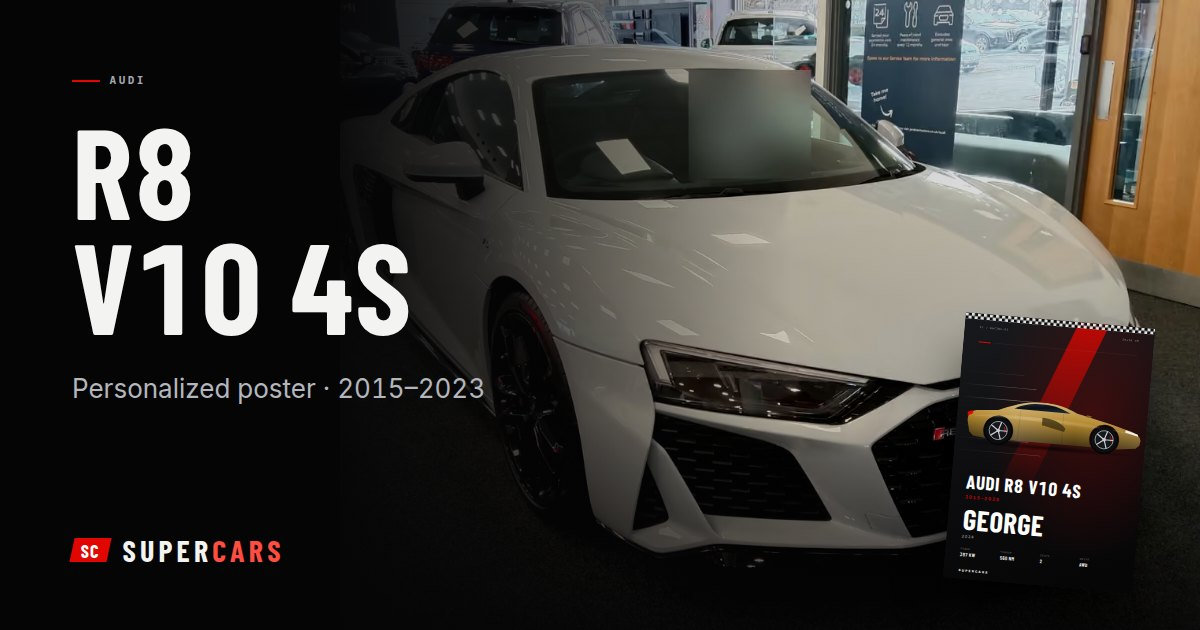
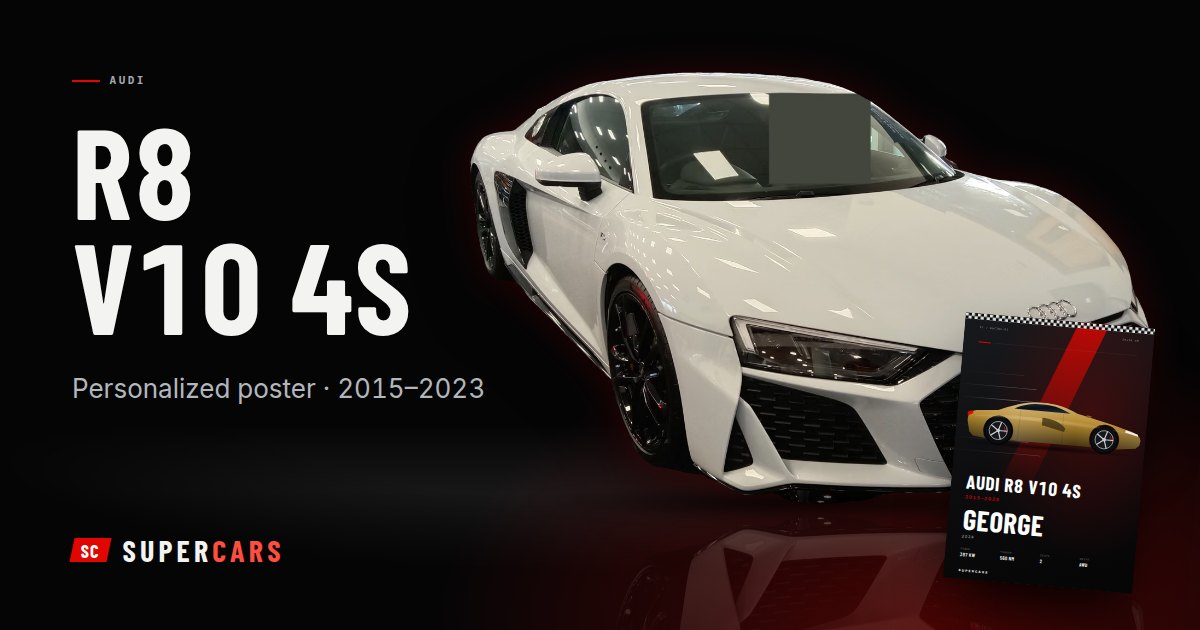
SuperCars: share images use the studio cut-outs
Claude-Session: https://claude.ai/code/session_01Y5xeqZSzBeaEcyTfuFvrQh

diff --git a/supercars/src/app/og-preview/[...key]/page.tsx b/supercars/src/app/og-preview/[...key]/page.tsx
@@ -1,5 +1,6 @@
 import { notFound } from "next/navigation";
 import { CarPhotoImage } from "@/components/cars/CarPhotoImage";
+import { StudioCar } from "@/components/cars/StudioCar";
 import { PosterPreview } from "@/components/poster/PosterPreview";
 import { VehicleArt } from "@/components/poster/VehicleArt";
 import { getRepositories } from "@/server/repositories";
@@ -42,7 +43,14 @@ export default async function OgPreview({ params }: { params: Promise<{ key: str
 
   return (
     <div id="og" style={{ position: "fixed", inset: 0, zIndex: 9999, width: 1200, height: 630, overflow: "hidden", background: "radial-gradient(ellipse 60% 70% at 78% 100%, rgba(225,6,0,0.34), transparent 70%), #050506" }}>
-      {photo ? (
+      {photo?.mode === "cutout" ? (
+        <>
+          <div className="studio-floor" style={{ position: "absolute", left: 0, right: 0, bottom: 0, height: 210 }} />
+          <div style={{ position: "absolute", right: 40, bottom: 120, width: 700 }}>
+            <StudioCar slug={carEntry.generation.slug} photo={photo} priority sizes="700px" />
+          </div>
+        </>
+      ) : photo ? (
         <>
           <div style={{ position: "absolute", top: 0, right: 0, bottom: 0, width: 860 }}>
             <CarPhotoImage slug={carEntry.generation.slug} photo={photo} priority sizes="860px" className="photo-cinema" alt="" />
